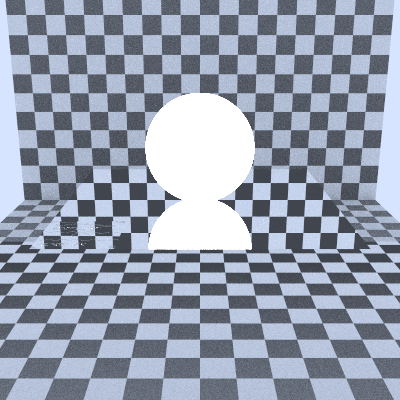
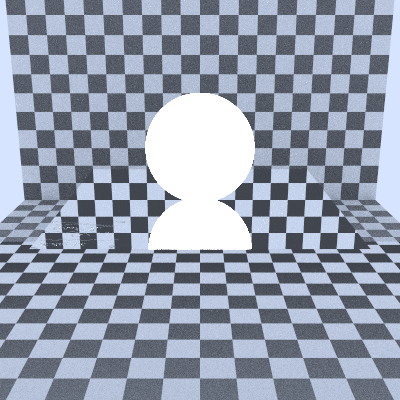
fix: remove discontinuities of normal map

Changed region(s): [[0.09, 0.54, 0.3, 0.63]]

diff --git a/src/materials/scratched_metal.h b/src/materials/scratched_metal.h
@@ -55,7 +55,7 @@ class scratched_metal : public material {
 		vec3 B(0, 0, 1);
 		vec3 N(0, 1, 0);
 
-		auto normal = ((color / 255.) - vec3(0.5, 0.5, 0.5)) * 2;
+		auto normal = ((color / 256.) - vec3(0.5, 0.5, 0.5)) * 2;
 
 		auto x = dot(T, normal);
 		auto y = dot(B, normal);
